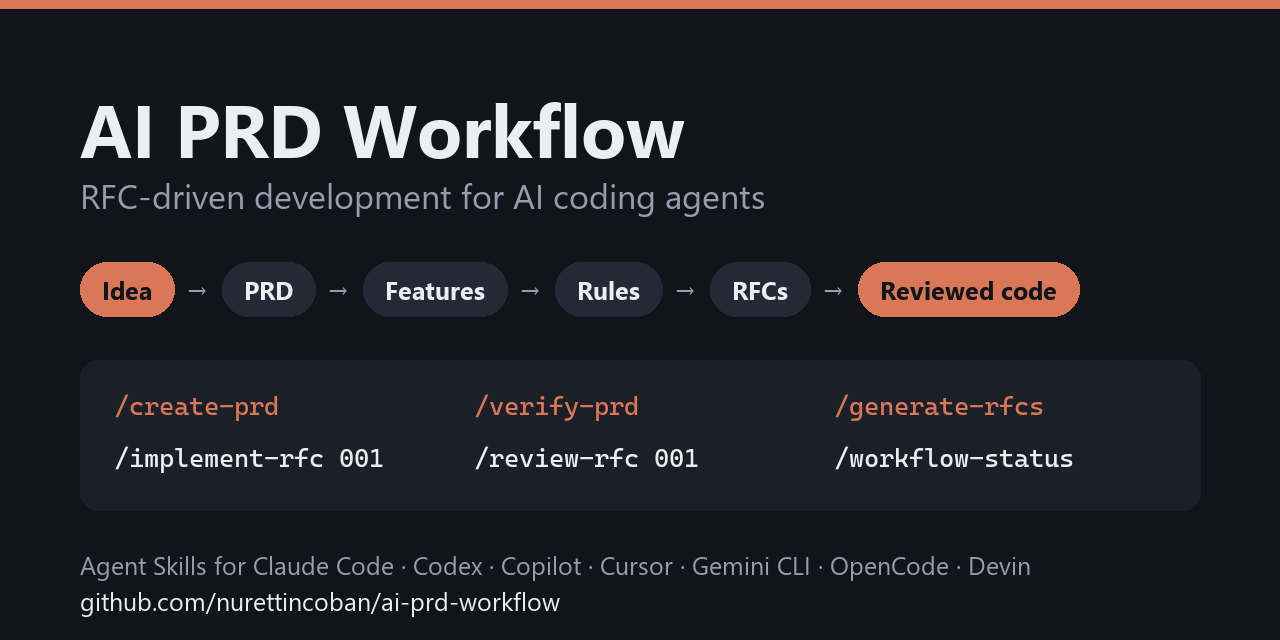
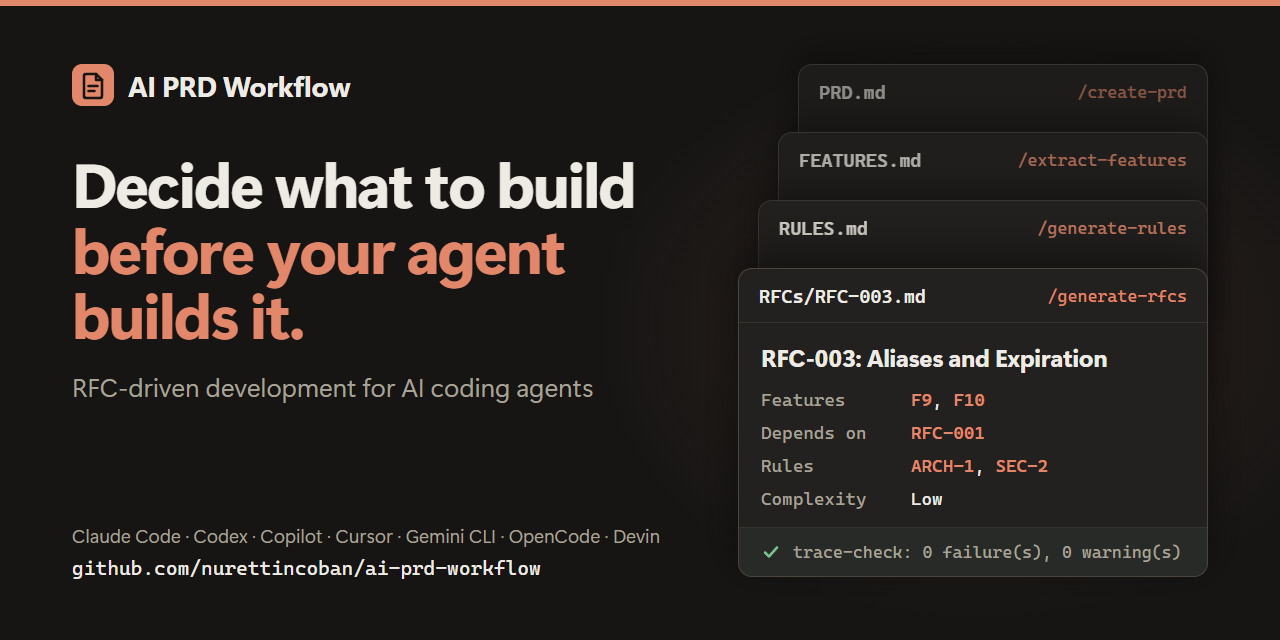
Social preview: a new card, also at the top of every README
The card now carries the site's headline and dark palette, and shows the
files each step writes, ending in an RFC whose IDs trace-check verifies.
Its source is .github/social-preview.html, so the next change is an edit
and a re-render rather than a redraw. The READMEs open with it, linked to
the website, with the alt text translated.

diff --git a/.github/social-preview.html b/.github/social-preview.html
@@ -1,0 +1,135 @@
+<!doctype html>
+<!--
+  Source of social-preview.png, the card shown when the repository or the site is linked.
+  Colours and wording follow site/index.html (dark theme). Render it at 1280x640:
+
+    chrome --headless --hide-scrollbars --force-device-scale-factor=1 \
+      --window-size=1280,640 --screenshot=social-preview.png social-preview.html
+
+  GitHub only takes the image through the web UI: Settings -> General -> Social preview.
+-->
+<html lang="en">
+<head>
+<meta charset="utf-8">
+<title>AI PRD Workflow social preview</title>
+<style>
+:root {
+  --bg: #161514;
+  --surface: #22211f;
+  --surface-2: #1d1c1a;
+  --text: #eeebe5;
+  --muted: #a8a399;
+  --faint: #6f6b63;
+  --border: #36342f;
+  --accent: #e3876a;
+  --accent-soft: #3a2721;
+  --ok: #7cc193;
+  --sans: "Segoe UI Variable Display", "Segoe UI", system-ui, sans-serif;
+  --mono: "Cascadia Mono", "Cascadia Code", Consolas, monospace;
+}
+* { box-sizing: border-box; margin: 0; }
+html, body { width: 1280px; height: 640px; overflow: hidden; }
+body {
+  position: relative;
+  background:
+    radial-gradient(560px 420px at 980px 330px, rgba(227,135,106,.13), transparent 70%),
+    var(--bg);
+  color: var(--text);
+  font-family: var(--sans);
+  -webkit-font-smoothing: antialiased;
+}
+body::before { /* thin accent rule along the top edge */
+  content: ""; position: absolute; inset: 0 0 auto 0; height: 6px; background: var(--accent);
+}
+
+/* left column */
+.left { position: absolute; left: 72px; top: 64px; bottom: 60px; width: 640px; display: flex; flex-direction: column; }
+.brand { display: flex; align-items: center; gap: 14px; font-size: 28px; font-weight: 700; letter-spacing: -.01em; }
+.brand svg { width: 42px; height: 42px; flex: none; }
+h1 {
+  margin-top: 44px;
+  font-size: 62px; line-height: 1.06; font-weight: 700; letter-spacing: -.03em;
+}
+h1 em { font-style: normal; color: var(--accent); }
+.sub { margin-top: 22px; font-size: 26px; color: var(--muted); }
+.foot { margin-top: auto; }
+.tools { font-size: 19px; color: var(--muted); }
+.url { margin-top: 8px; font-family: var(--mono); font-size: 20px; color: var(--text); }
+
+/* right column: the files each step writes, stacked in the order they are written */
+.stack { position: absolute; right: 72px; top: 64px; width: 470px; height: 512px; }
+.card {
+  position: absolute; right: 0;
+  background: var(--surface); border: 1px solid var(--border); border-radius: 14px;
+  box-shadow: 0 -10px 30px rgba(0,0,0,.35);
+}
+.card .head {
+  display: flex; align-items: center; justify-content: space-between;
+  height: 54px; padding: 0 20px;
+  font-family: var(--mono); font-size: 19px;
+}
+.card .file { color: var(--text); font-weight: 600; }
+.card .cmd { color: var(--accent); font-size: 17px; }
+.c1 { top: 0;     width: 410px; height: 200px; background: var(--surface-2); }
+.c2 { top: 68px;  width: 430px; height: 200px; background: #1f1e1c; }
+.c3 { top: 136px; width: 450px; height: 200px; background: #21201e; }
+.c1 .file, .c1 .cmd { opacity: .55; }
+.c2 .file, .c2 .cmd { opacity: .7; }
+.c3 .file, .c3 .cmd { opacity: .85; }
+.c4 { top: 204px; width: 470px; border-color: #4a463f; box-shadow: 0 -14px 40px rgba(0,0,0,.45); }
+.c4 .head { border-bottom: 1px solid var(--border); }
+.c4 .title { padding: 18px 22px 6px; font-size: 24px; font-weight: 700; letter-spacing: -.01em; }
+.c4 dl {
+  display: grid; grid-template-columns: 150px 1fr; row-gap: 12px;
+  padding: 10px 22px 18px; font-family: var(--mono); font-size: 18px;
+}
+.c4 dt { color: var(--muted); }
+.c4 dd { color: var(--text); }
+.c4 dd b { color: var(--accent); font-weight: 600; }
+.c4 .check {
+  display: flex; align-items: center; gap: 12px;
+  border-top: 1px solid var(--border); padding: 14px 22px;
+  font-family: var(--mono); font-size: 17px; color: var(--muted);
+  background: rgba(124,193,147,.06); border-radius: 0 0 14px 14px;
+}
+.c4 .check .ok { color: var(--ok); font-weight: 700; }
+</style>
+</head>
+<body>
+
+<div class="left">
+  <div class="brand">
+    <svg viewBox="0 0 42 42" aria-hidden="true">
+      <rect width="42" height="42" rx="10" fill="#e3876a"/>
+      <path d="M14 10h10l6 6v16a2 2 0 0 1-2 2H14a2 2 0 0 1-2-2V12a2 2 0 0 1 2-2z" fill="none" stroke="#161514" stroke-width="2.6" stroke-linejoin="round"/>
+      <path d="M24 10v6h6M16.5 22h9M16.5 27h6" fill="none" stroke="#161514" stroke-width="2.6" stroke-linecap="round" stroke-linejoin="round"/>
+    </svg>
+    AI PRD Workflow
+  </div>
+  <h1>Decide what to build <em>before your agent builds it.</em></h1>
+  <p class="sub">RFC-driven development for AI coding agents</p>
+  <div class="foot">
+    <p class="tools">Claude Code · Codex · Copilot · Cursor · Gemini CLI · OpenCode · Devin</p>
+    <p class="url">github.com/nurettincoban/ai-prd-workflow</p>
+  </div>
+</div>
+
+<div class="stack" aria-hidden="true">
+  <div class="card c1"><div class="head"><span class="file">PRD.md</span><span class="cmd">/create-prd</span></div></div>
+  <div class="card c2"><div class="head"><span class="file">FEATURES.md</span><span class="cmd">/extract-features</span></div></div>
+  <div class="card c3"><div class="head"><span class="file">RULES.md</span><span class="cmd">/generate-rules</span></div></div>
+  <div class="card c4">
+    <div class="head"><span class="file">RFCs/RFC-003.md</span><span class="cmd">/generate-rfcs</span></div>
+    <p class="title">RFC-003: Aliases and Expiration</p>
+    <dl>
+      <dt>Features</dt><dd><b>F9</b>, <b>F10</b></dd>
+      <dt>Depends on</dt><dd><b>RFC-001</b></dd>
+      <dt>Rules</dt><dd><b>ARCH-1</b>, <b>SEC-2</b></dd>
+      <dt>Complexity</dt><dd>Low</dd>
+    </dl>
+    <div class="check"><svg class="ok" viewBox="0 0 20 20" width="20" height="20" aria-hidden="true"><path d="M4 10.5l4 4 8-9" fill="none" stroke="#7cc193" stroke-width="2.6" stroke-linecap="round" stroke-linejoin="round"/></svg>trace-check: 0 failure(s), 0 warning(s)</div>
+  </div>
+</div>
+
+</body>
+</html>

diff --git a/README.ja.md b/README.ja.md
@@ -1,5 +1,7 @@
 <div align="center">
 
+<a href="https://nurettincoban.github.io/ai-prd-workflow/"><img src=".github/social-preview.png" width="820" alt="AI PRD Workflow：エージェントが作り始める前に、何を作るかを決める"></a>
+
 # 📋 AI PRD Workflow
 
 ### AI コーディングエージェントのための RFC 駆動開発

diff --git a/README.ko.md b/README.ko.md
@@ -1,5 +1,7 @@
 <div align="center">
 
+<a href="https://nurettincoban.github.io/ai-prd-workflow/"><img src=".github/social-preview.png" width="820" alt="AI PRD Workflow: 에이전트가 만들기 전에 무엇을 만들지 먼저 정하세요"></a>
+
 # 📋 AI PRD Workflow
 
 ### AI 코딩 에이전트를 위한 RFC 주도 개발

diff --git a/README.es.md b/README.es.md
@@ -1,5 +1,7 @@
 <div align="center">
 
+<a href="https://nurettincoban.github.io/ai-prd-workflow/"><img src=".github/social-preview.png" width="820" alt="AI PRD Workflow: decide qué construir antes de que tu agente lo construya"></a>
+
 # 📋 AI PRD Workflow
 
 ### Desarrollo guiado por RFC para agentes de programación con IA

diff --git a/README.tr.md b/README.tr.md
@@ -1,5 +1,7 @@
 <div align="center">
 
+<a href="https://nurettincoban.github.io/ai-prd-workflow/"><img src=".github/social-preview.png" width="820" alt="AI PRD Workflow: ajanınız inşa etmeden önce neyin inşa edileceğine karar verin"></a>
+
 # 📋 AI PRD Workflow
 
 ### AI kodlama ajanları için RFC odaklı geliştirme

diff --git a/README.md b/README.md
@@ -1,5 +1,7 @@
 <div align="center">
 
+<a href="https://nurettincoban.github.io/ai-prd-workflow/"><img src=".github/social-preview.png" width="820" alt="AI PRD Workflow: decide what to build before your agent builds it"></a>
+
 # 📋 AI PRD Workflow
 
 ### RFC-driven development for AI coding agents

diff --git a/README.zh-CN.md b/README.zh-CN.md
@@ -1,5 +1,7 @@
 <div align="center">
 
+<a href="https://nurettincoban.github.io/ai-prd-workflow/"><img src=".github/social-preview.png" width="820" alt="AI PRD Workflow：在代理动手之前，先决定要构建什么"></a>
+
 # 📋 AI PRD Workflow
 
 ### 面向 AI 编程代理的 RFC 驱动开发
